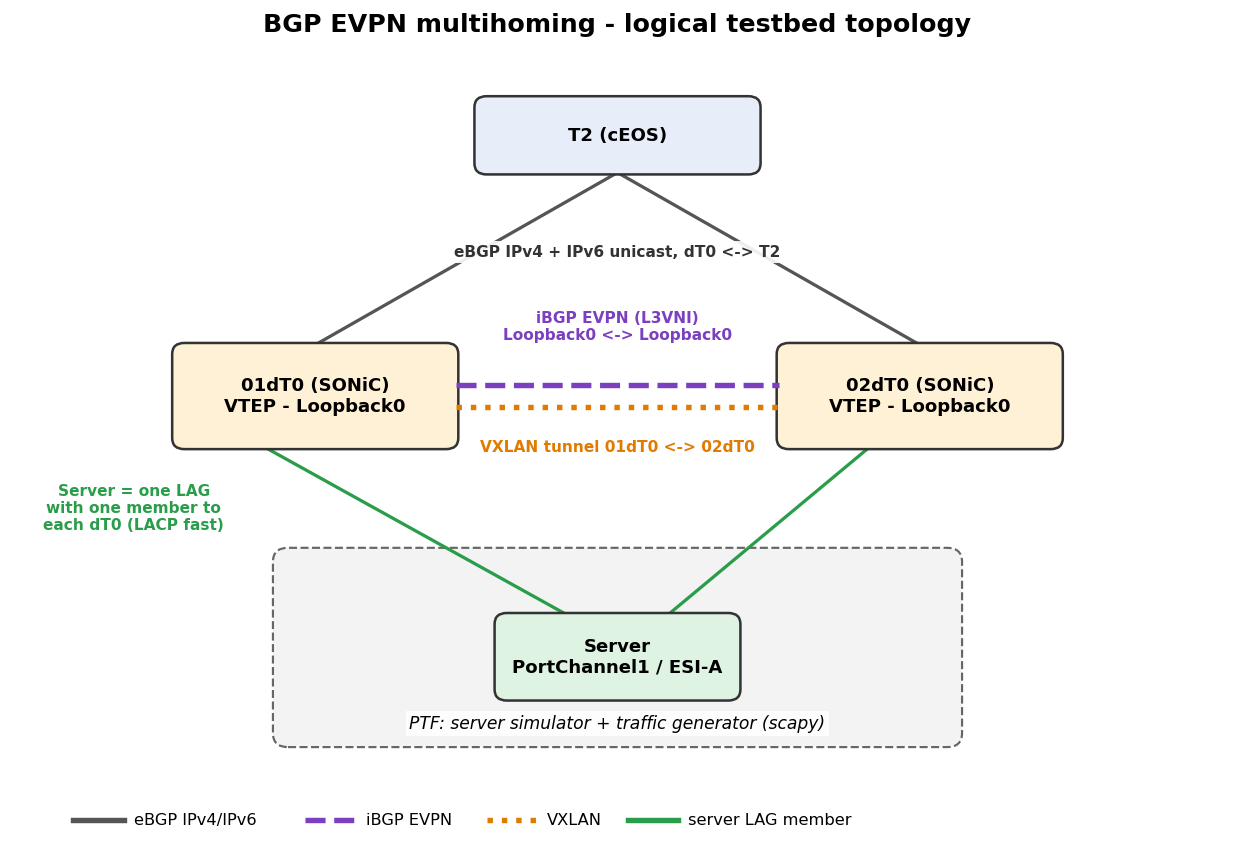
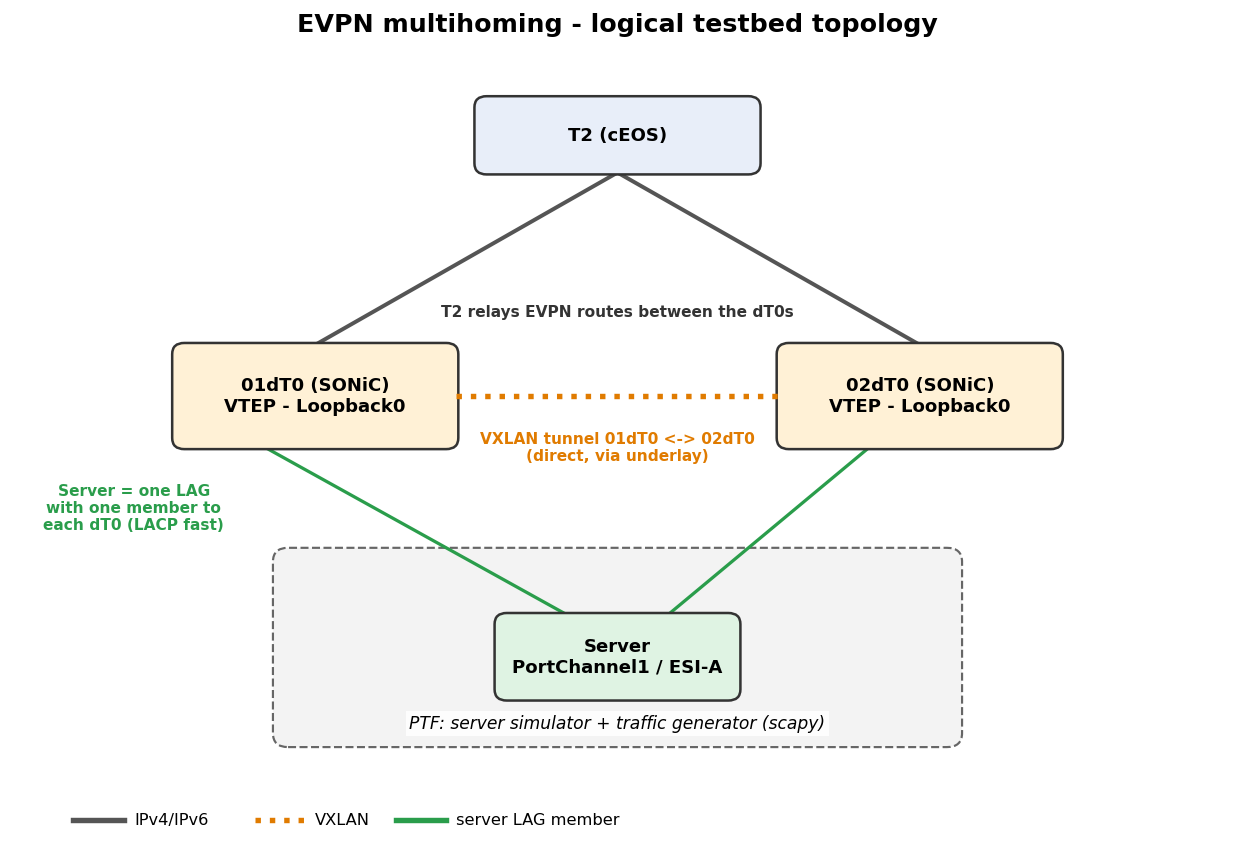
Address review comments on dual-ToR BGP EVPN MH test plan and update evpn_mh_topology image

diff --git a/docs/testplan/dual_tor/dual_tor_bgp_evpn_mh_test_plan.md b/docs/testplan/dual_tor/dual_tor_bgp_evpn_mh_test_plan.md
@@ -61,7 +61,7 @@ As the testing of a server NIC device operation is out of the scope of this test
     * If any check fails, mark SS prerequisite failed and do not run SS functional checks.
 - BGP graceful restart (GR) is disabled on all sessions; BFD is not used.
 
-**BGP peering:** each dT0 runs IPv4 and IPv6 unicast eBGP sessions to the T2 simulators, which only provide underlay reachability between the dT0 loopbacks. EVPN (L3VNI) runs only between the two dT0s, as an iBGP session between their Loopback0 addresses over that underlay. The VXLAN tunnel is between the two dT0 VTEPs.
+**BGP peering:** each dT0 runs IPv4 and IPv6 unicast eBGP sessions to the T2 simulators, which only provide underlay reachability between the dT0 loopbacks. The VXLAN tunnel is between the two dT0 VTEPs.
 
 ### Convergence & Detection Targets
 **Target release and failover model:** this plan covers the release **without UAP** (the upcoming feature where a dT0 stops attracting traffic for the servers behind its failed link) and without hardware fast reroute. T2 has only the subnet route, so it keeps sending 01dT0 its share of a server's traffic after 01dT0 loses its link; withdrawing the Type-1 does not change that. 01dT0 tunnels that share to 02dT0 until the link recovers. The dT0 that lost its link moves traffic in software (tens to hundreds of ms).
